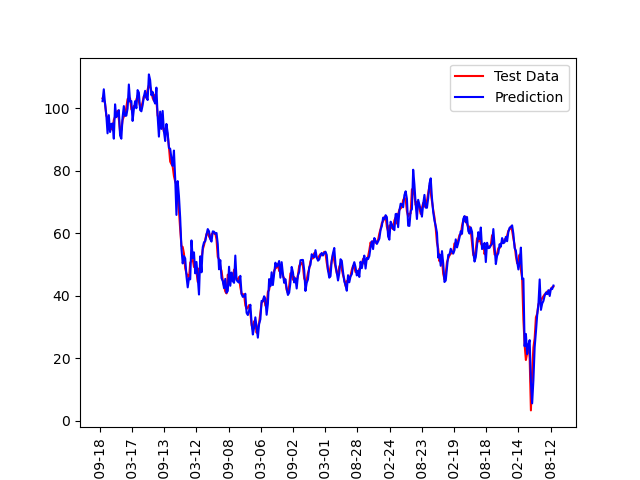
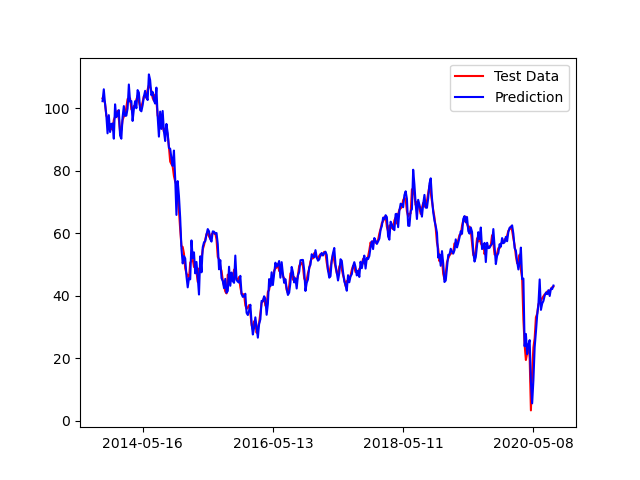
fixed weekly rolling pic

Changed region(s): [[0.3438, 0.9062, 0.7188, 1.0], [0.125, 0.9062, 0.3125, 1.0], [0.75, 0.9062, 0.9062, 1.0]]

diff --git a/models/GKFN.py b/models/GKFN.py
@@ -245,7 +245,6 @@ def rolling_forecast(teX, teY,
     pre = teY - err
     plt.plot(dates, teY, 'r')
     plt.plot(dates, pre, 'b')
-    plt.xticks(rotation = 90)
     plt.legend(["Test Data", "Prediction"])
     plt.savefig("./kernel" + str(num_kernels) + "_prediction_graph.png")
     plt.show()
@@ -278,7 +277,6 @@ def evaluate(teX, teY,
     pre = teY - err
     plt.plot(dates, teY, 'r')
     plt.plot(dates, pre, 'b')
-    #plt.xticks(rotation = 90)
     plt.legend(["Test Data", "Prediction"])
     plt.savefig("./kernel" + str(num_kernels) + "_prediction_graph.png")
     plt.show()

diff --git a/models/test_rolling_forecast.py b/models/test_rolling_forecast.py
@@ -114,8 +114,8 @@ evaluate
 
 # plot formatters
 formatter = mdates.DateFormatter("%Y-%m-%d") # date format for plotting
-locater = mdates.DayLocator(interval = 180) # for daily data
-#locater = mdates.WeekdayLocator(byweekday = FR, interval = 26) # weekly
+#locater = mdates.DayLocator(interval = 180) # for daily data
+locater = mdates.WeekdayLocator(byweekday = FR, interval = 26 * 4) # weekly
 #locater = mdates.MonthLocator(bymonthday = 1, interval = 6) # monthly
 
 rmse, rsq, mae = GKFN.rolling_forecast(teX, teY,

diff --git a/models/GKFN_recursive.py b/models/GKFN_recursive.py
@@ -298,7 +298,6 @@ def evaluate(data, teX, teY, teYdate, index_arr,
     pre = teY - err
     plt.plot(dates, teY, 'r')
     plt.plot(dates, pre, 'b')
-    plt.xticks(rotation = 90)
     plt.legend(["Test Data", "Prediction"])
     plt.savefig("./kernel" + str(num_kernels) + "_prediction_graph.png")
     plt.show()
